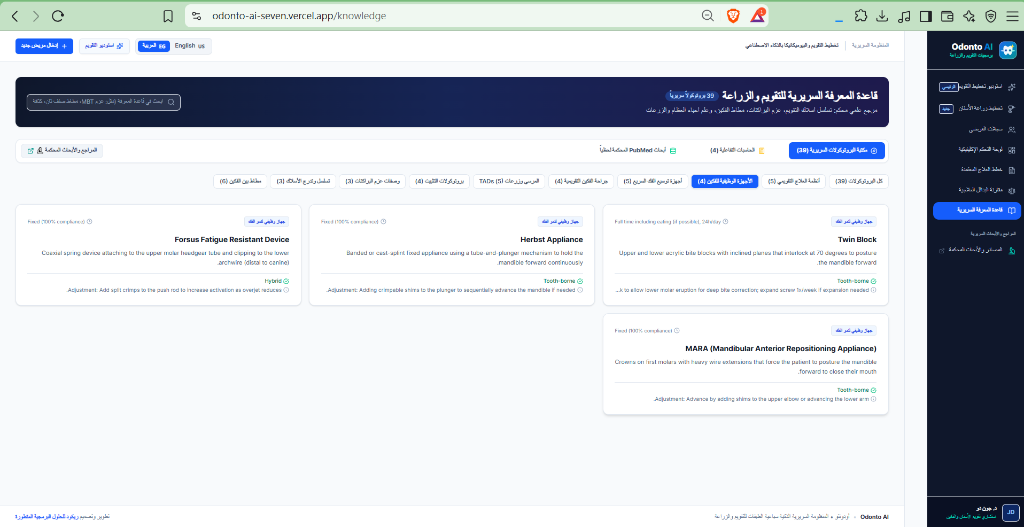
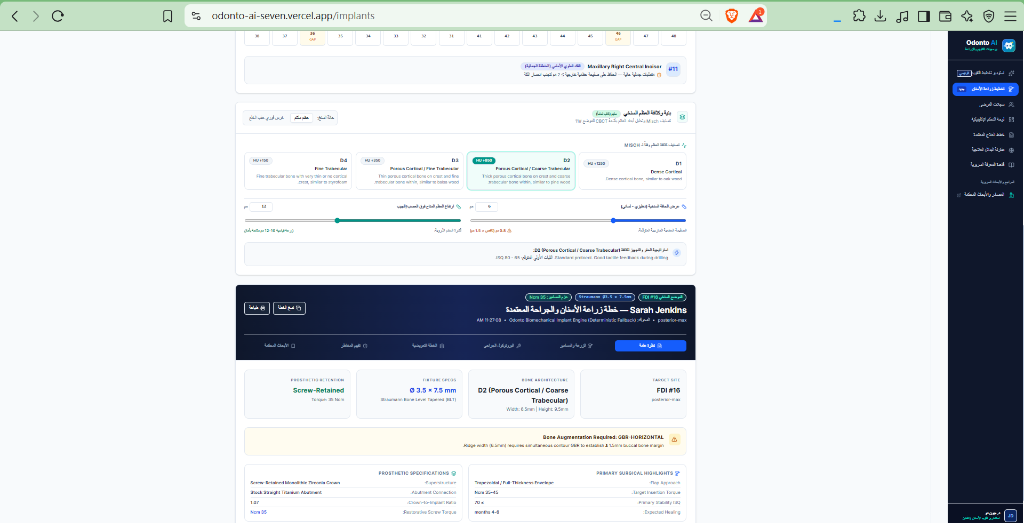
fix(manual): update screenshots to match exact UI content and align callout descriptions

diff --git a/public/developer-manual.html b/public/developer-manual.html
@@ -896,43 +896,14 @@
           </div>
         </div>
 
-        <!-- Studio Header & Language Switcher Screenshot -->
-        <div class="screenshot-card" style="margin: 18px 0 28px 0;">
-          <div class="screenshot-top-bar">
-            <div class="browser-dots">
-              <span class="browser-dot dot-red"></span>
-              <span class="browser-dot dot-yellow"></span>
-              <span class="browser-dot dot-green"></span>
-            </div>
-            <span>Odonto AI Header — شريط الأدوات العلوي ومبدل اللغة وأزرار الحالات الجاهزة</span>
-          </div>
-          <div class="screenshot-img-wrap">
-            <img src="/screenshots/studio_header_preview.png" alt="Odonto AI Studio Header & Language Switcher">
-          </div>
-          <div class="screenshot-bottom-info">
-            <strong>مزايا شريط التحكم العلوي:</strong>
-            <div class="callout-list">
-              <div class="callout-item">
-                <div class="callout-marker">🌐</div>
-                <span><strong>مبدل اللغة الشامل (Bilingual Switcher):</strong> يحول كامل المصطلحات والواجهات بين العربية المصرية المعرّبة طبياً والإنجليزية بضغطة واحدة.</span>
-              </div>
-              <div class="callout-item">
-                <div class="callout-marker">⚡</div>
-                <span><strong>تحميل الحالات الفوري (Quick Presets):</strong> زر لاختبار أصعب الحالات السريرية وتجربة النظام بلحظة واحدة.</span>
-              </div>
-            </div>
-          </div>
-        </div>
-
-
         <div class="step-item">
           <div class="step-badge">3</div>
           <div class="step-content">
             <h3>اختيار عمق الشرح السريري (Experience Level Toggle)</h3>
             <p>
               يحتوي النظام على مفتاح ذكي لتغيير أسلوب الصياغة الطبية:
-              <br>• <strong>مبتدئ (Beginner):</strong> يقدم شرحاً تفصيلياً مع تبرير كل قرار بيوميكانيكي وذكر المراجع الأكاديمية (مثالي للتدريب وشرح الحالة للمريض).
-              <br>• <strong>خبير (Expert):</strong> يعطي تقريراً مكثفاً ومباشراً يحتوي على الأرقام والميكانيكا فوراً دون إطالة.
+              <br>• <strong>مبتدئ (Fresh Graduate with Rationale):</strong> يقدم شرحاً تفصيلياً مع تبرير كل قرار بيوميكانيكي وذكر المراجع الأكاديمية (مثالي للتدريب وشرح الحالة للمريض).
+              <br>• <strong>خبير (Specialist Concise):</strong> يعطي تقريراً مكثفاً ومباشراً يحتوي على الأرقام والميكانيكا فوراً دون إطالة.
             </p>
           </div>
         </div>
@@ -940,9 +911,9 @@
         <div class="step-item">
           <div class="step-badge">4</div>
           <div class="step-content">
-            <h3>الضغط على زر التوليد السريري (Generate Comprehensive Plan)</h3>
+            <h3>الضغط على زر التوليد السريري (Generate Plan with GPT-4o)</h3>
             <p>
-              اضغط على الزر الرئيسي البنفسجي/الأزرق. في هذه اللحظة، يعمل خط الأنابيب السباعي في الخادم لثوانٍ معدودة، ثم تظهر أمامك خطة علاجية متكاملة تتضمن:
+              اضغط على الزر الرئيسي الأزرق في أعلى اليمين. في هذه اللحظة، يعمل خط الأنابيب السباعي في الخادم لثوانٍ معدودة، ثم تظهر أمامك خطة علاجية متكاملة تتضمن:
               <br>1. <strong>ملخص التشخيص:</strong> التصنيف الهيكلي والسنّي وصحة اللثة.
               <br>2. <strong>قرار الخلع:</strong> هل نخلع أسناناً أم لا ولماذا؟
               <br>3. <strong>تدرج الأسلاك:</strong> جدول مقاسات الأسلاك (NiTi ثم Stainless Steel ثم TMA).
@@ -962,29 +933,29 @@
             <span class="browser-dot dot-yellow"></span>
             <span class="browser-dot dot-green"></span>
           </div>
-          <span>Odonto AI Treatment Studio — شاشة استوديو تخليق خطط العلاج</span>
+          <span>Odonto AI Treatment Studio — شاشة استوديو تخليق خطط العلاج وتقويم الأسنان</span>
         </div>
         <div class="screenshot-img-wrap">
-          <img src="/screenshots/treatment_studio_preview.png" alt="Treatment Studio Interface" onerror="this.src='/screenshots/plan_generation_preview.png'">
+          <img src="/screenshots/treatment_studio_preview.png" alt="Treatment Planning Studio Interface">
         </div>
         <div class="screenshot-bottom-info">
-          <strong>عناصر الشاشة الرئيسية الموضحة أعلاه:</strong>
+          <strong>عناصر شاشة استوديو العلاج الموضحة أعلاه:</strong>
           <div class="callout-list">
             <div class="callout-item">
               <div class="callout-marker">1</div>
-              <span><strong>صندوق العينات الجاهزة:</strong> أزرار تحميل الحالات السريرية الجاهزة للاختبار الفوري.</span>
+              <span><strong>شريط خط الأنابيب السباعي (7-Layer Pipeline Status):</strong> متابعة آنية لحالة طبقات التحليل (Ceph, Panoramic, Pre-Ortho, 3D Arch Space, CBCT, Clinical Reasoning, Plan Synthesis).</span>
             </div>
             <div class="callout-item">
               <div class="callout-marker">2</div>
-              <span><strong>مخطط الفحص السريري:</strong> خانات إدخال البروز، التغطية، والتزاحم بالملليمتر.</span>
+              <span><strong>محددات الحالة وتفضيل العلاج (Case & Modality Selectors):</strong> اختيار المريض، مستوى عمق التقرير السريري (Fresh Graduate / Specialist)، ونوع جهاز التقويم (مثل MBT 0.022").</span>
             </div>
             <div class="callout-item">
               <div class="callout-marker">3</div>
-              <span><strong>مفتاح مستوى الخبرة:</strong> التبديل بين الشرح المفصل (Beginner) والملخص السريع (Expert).</span>
+              <span><strong>استوديو تتبع السيفالومتريك المباشر (AI Cephalometric Tracing):</strong> نافذة التتبع الآلي لنقاط وزوايا الجمجمة (Steiner/Downs/Tweed) ورسم الخطوط البيوميكانيكية فورياً.</span>
             </div>
             <div class="callout-item">
               <div class="callout-marker">4</div>
-              <span><strong>زر توليد الخطة:</strong> يطلق خط أنابيب المعالجة والذكاء الاصطناعي السريري.</span>
+              <span><strong>الخطة السريرية الأولية وزر التوليد:</strong> عرض الوصفة الرئيسية، المدة المقدرة (20-24 شهراً)، قرار الخلع، وزر "Generate Plan with GPT-4o" في الأعلى.</span>
             </div>
           </div>
         </div>
@@ -1092,29 +1063,29 @@
             <span class="browser-dot dot-yellow"></span>
             <span class="browser-dot dot-green"></span>
           </div>
-          <span>Odonto AI Treatment Plan — ناتج تخليق الخطة السريرية وتدرج الأسلاك والميكانيكا</span>
+          <span>Odonto AI Treatment Studio — نموذج المحاكاة ثلاثي الأبعاد وخطة العلاج المخلّقة بـ 7 طبقات أمان</span>
         </div>
         <div class="screenshot-img-wrap">
-          <img src="/screenshots/plan_generation_preview.png" alt="Generated Treatment Plan Output">
+          <img src="/screenshots/plan_generation_preview.png" alt="Generated Treatment Plan Output with 3D Study Model">
         </div>
         <div class="screenshot-bottom-info">
-          <strong>مخرجات الخطة السريرية المولدة بواسطة خط الأنابيب السباعي:</strong>
+          <strong>مخرجات الخطة السريرية والمحاكاة ثلاثية الأبعاد الموضحة أعلاه:</strong>
           <div class="callout-list">
             <div class="callout-item">
               <div class="callout-marker">1</div>
-              <span><strong>أهداف العلاج المرحلية (Staged Objectives):</strong> خطوات بيولوجية مقسمة على مراحل متدرجة لتقليل الإجهاد على الأنسجة المحيطة بالسن.</span>
+              <span><strong>نموذج الدراسة ثلاثي الأبعاد التفاعلي (3D Digital Study Model):</strong> معاينة حية لإطباق الأسنان بتقنية WebGL مع إمكانية تحريك الفكين ومحاكاة المحاذاة (Alignment Simulation).</span>
             </div>
             <div class="callout-item">
               <div class="callout-marker">2</div>
-              <span><strong>تدرج الأسلاك الحسابي (Wire Progression):</strong> تسلسل المقاسات والسبائك (CuNiTi ثم SS ثم TMA) حسب حالة الحالة.</span>
+              <span><strong>قرار الخلع الحسابي (Extraction Decision: Non-Extraction):</strong> توضيح مانع الخلع لحماية مظهر الوجه ومحيط الفك العلوي في حالات Class III لمنع تراجع منتصف الوجه.</span>
             </div>
             <div class="callout-item">
               <div class="callout-marker">3</div>
-              <span><strong>بروتوكول المطاطات وقوة الشد (Elastics & Vector):</strong> تحديد عيار القوة بالأونصة، ساعات الارتداء، واتجاه الشد لتصحيح العضة.</span>
+              <span><strong>الميكانيكا المرحلية وتوسيع العظم (Staged Mechanics):</strong> تفصيل المرحلة (Phase 1A) بتوسيع عظم الحنك عبر جهاز Hyrax بمعدل لفتين يومياً (0.5 مم/يوم) لفك دروز الفك العلوي.</span>
             </div>
             <div class="callout-item">
               <div class="callout-marker">4</div>
-              <span><strong>التثبيت والوقاية من الارتداد (Retention Protocol):</strong> اختيار مثبت سلكي دائم أو شفاف لمنع نكس الحالة مع جدول المتابعة.</span>
+              <span><strong>تبويبات البروتوكولات المكتملة:</strong> تدرج الأسلاك (Archwire Progression)، المطاطات والزرعات (Anchorage & Elastics)، التثبيت (Retention)، والأدلة المنشورة (Literature Evidence).</span>
             </div>
           </div>
         </div>
@@ -1186,29 +1157,29 @@
             <span class="browser-dot dot-yellow"></span>
             <span class="browser-dot dot-green"></span>
           </div>
-          <span>Odonto AI Implant Studio — استوديو زراعة الأسنان الرقمي</span>
+          <span>Odonto AI Implant Studio — استوديو زراعة الأسنان وحسابات كثافة العظم وخطة الجراحة</span>
         </div>
         <div class="screenshot-img-wrap">
           <img src="/screenshots/implants_studio_preview.png" alt="Implants Studio Interface">
         </div>
         <div class="screenshot-bottom-info">
-          <strong>عناصر استوديو الزراعة الموضحة أعلاه:</strong>
+          <strong>عناصر استوديو الزراعة الموضحة في الصورة أعلاه:</strong>
           <div class="callout-list">
             <div class="callout-item">
               <div class="callout-marker">1</div>
-              <span><strong>محدد السن المفقود:</strong> اختيار موقع الزراعة حسب نظام FDI.</span>
+              <span><strong>محدد السن والمنطقة (FDI #16 Posterior Maxilla):</strong> تحديد موقع الزرعة للضرس العلوي أو القاطع المركزي #11 مع رصد حدود الجيب الفكي والعصب.</span>
             </div>
             <div class="callout-item">
               <div class="callout-marker">2</div>
-              <span><strong>محدد كثافة العظم Misch D1-D4:</strong> تقييم صلابة العظم وبروتوكول الحفر والتبريد.</span>
+              <span><strong>محلل كثافة العظم (Misch D1–D4 & Hounsfield Units):</strong> قياس صلابة العظم (D2 Porous Cortical) وأبعاد العظم المتاح (العرض 6.5 مم، الارتفاع 9.5 مم).</span>
             </div>
             <div class="callout-item">
               <div class="callout-marker">3</div>
-              <span><strong>كتالوج الشركات:</strong> اختيار الزرعة المناسبة من بين 14 ماركة عالمية.</span>
+              <span><strong>مواصفات الزرعة وشركة التصنيع:</strong> اختيار زرعة Straumann BLT بمقاس Ø 3.5 × 7.5 مم بناءً على كتالوجات الشركات الـ 14 المعتمدة.</span>
             </div>
             <div class="callout-item">
               <div class="callout-marker">4</div>
-              <span><strong>عزم التربيط (Torque Ncm):</strong> القوة الدقيقة لربط المسمار لمنع كسره أو فكه لاحقاً.</span>
+              <span><strong>متطلبات الترقيع العظمي وعزم الربط:</strong> تنبيه بحاجة الحالة لترقيع عظمي أفقي (GBR Horizontal) لتحقيق سماكة ≥ 1.5 مم، مع تحديد عزم ربط البرغي التعويضي (35 Ncm).</span>
             </div>
           </div>
         </div>
@@ -1295,25 +1266,25 @@
             <span class="browser-dot dot-yellow"></span>
             <span class="browser-dot dot-green"></span>
           </div>
-          <span>Odonto AI Knowledge Base & PubMed Live RAG — مكتبة المعرفة ومستكشف الأبحاث الحي</span>
+          <span>Odonto AI Knowledge Base & PubMed Live RAG — مكتبة المعرفة السريرية المعربة ومستكشف الأبحاث الحي</span>
         </div>
         <div class="screenshot-img-wrap">
           <img src="/screenshots/knowledge_base_preview.png" alt="Knowledge Base Interface">
         </div>
         <div class="screenshot-bottom-info">
-          <strong>عناصر مكتبة المعرفة الموضحة أعلاه:</strong>
+          <strong>عناصر مكتبة المعرفة الموضحة في الصورة أعلاه:</strong>
           <div class="callout-list">
             <div class="callout-item">
               <div class="callout-marker">1</div>
-              <span><strong>44 بروتوكولاً سريرياً:</strong> مصنفة في 10 أقسام معربة للمبتدئين والمحترفين.</span>
+              <span><strong>39 بروتوكولاً سريرياً معرباً:</strong> مفهرسة في 10 أقسام (أنظمة العلاج، الأجهزة الوظيفية، توسيع الفك، جراحة الفكين، براكتات MBT، تدرج الأسلاك، والمطاطات).</span>
             </div>
             <div class="callout-item">
               <div class="callout-marker">2</div>
-              <span><strong>مستكشف PubMed الحي:</strong> يبحث لحظياً في 36 مليون دراسة طبية في المكتبة الوطنية الأمريكية للطب.</span>
+              <span><strong>مبدل اللغة العلوي (Bilingual Switcher):</strong> يتيح تصفح كافة البروتوكولات والواجهات بالعربية المصرية المعربة طبياً أو الإنجليزية بنقرة واحدة.</span>
             </div>
             <div class="callout-item">
               <div class="callout-marker">3</div>
-              <span><strong>الحاسبات التفاعلية الأربع:</strong> معادلات رياضية نقية لنمو العظم ومسافات الأسنان.</span>
+              <span><strong>الحاسبات التفاعلية الأربع ومستكشف PubMed:</strong> تبويبات للوصول السريع لحاسبات CVM، Bolton، Aligner Velocity، Sinus Lift، مع البحث المباشر في المكتبة الوطنية للطب.</span>
             </div>
           </div>
         </div>

diff --git a/public/manual.html b/public/manual.html
@@ -896,43 +896,14 @@
           </div>
         </div>
 
-        <!-- Studio Header & Language Switcher Screenshot -->
-        <div class="screenshot-card" style="margin: 18px 0 28px 0;">
-          <div class="screenshot-top-bar">
-            <div class="browser-dots">
-              <span class="browser-dot dot-red"></span>
-              <span class="browser-dot dot-yellow"></span>
-              <span class="browser-dot dot-green"></span>
-            </div>
-            <span>Odonto AI Header — شريط الأدوات العلوي ومبدل اللغة وأزرار الحالات الجاهزة</span>
-          </div>
-          <div class="screenshot-img-wrap">
-            <img src="/screenshots/studio_header_preview.png" alt="Odonto AI Studio Header & Language Switcher">
-          </div>
-          <div class="screenshot-bottom-info">
-            <strong>مزايا شريط التحكم العلوي:</strong>
-            <div class="callout-list">
-              <div class="callout-item">
-                <div class="callout-marker">🌐</div>
-                <span><strong>مبدل اللغة الشامل (Bilingual Switcher):</strong> يحول كامل المصطلحات والواجهات بين العربية المصرية المعرّبة طبياً والإنجليزية بضغطة واحدة.</span>
-              </div>
-              <div class="callout-item">
-                <div class="callout-marker">⚡</div>
-                <span><strong>تحميل الحالات الفوري (Quick Presets):</strong> زر لاختبار أصعب الحالات السريرية وتجربة النظام بلحظة واحدة.</span>
-              </div>
-            </div>
-          </div>
-        </div>
-
-
         <div class="step-item">
           <div class="step-badge">3</div>
           <div class="step-content">
             <h3>اختيار عمق الشرح السريري (Experience Level Toggle)</h3>
             <p>
               يحتوي النظام على مفتاح ذكي لتغيير أسلوب الصياغة الطبية:
-              <br>• <strong>مبتدئ (Beginner):</strong> يقدم شرحاً تفصيلياً مع تبرير كل قرار بيوميكانيكي وذكر المراجع الأكاديمية (مثالي للتدريب وشرح الحالة للمريض).
-              <br>• <strong>خبير (Expert):</strong> يعطي تقريراً مكثفاً ومباشراً يحتوي على الأرقام والميكانيكا فوراً دون إطالة.
+              <br>• <strong>مبتدئ (Fresh Graduate with Rationale):</strong> يقدم شرحاً تفصيلياً مع تبرير كل قرار بيوميكانيكي وذكر المراجع الأكاديمية (مثالي للتدريب وشرح الحالة للمريض).
+              <br>• <strong>خبير (Specialist Concise):</strong> يعطي تقريراً مكثفاً ومباشراً يحتوي على الأرقام والميكانيكا فوراً دون إطالة.
             </p>
           </div>
         </div>
@@ -940,9 +911,9 @@
         <div class="step-item">
           <div class="step-badge">4</div>
           <div class="step-content">
-            <h3>الضغط على زر التوليد السريري (Generate Comprehensive Plan)</h3>
+            <h3>الضغط على زر التوليد السريري (Generate Plan with GPT-4o)</h3>
             <p>
-              اضغط على الزر الرئيسي البنفسجي/الأزرق. في هذه اللحظة، يعمل خط الأنابيب السباعي في الخادم لثوانٍ معدودة، ثم تظهر أمامك خطة علاجية متكاملة تتضمن:
+              اضغط على الزر الرئيسي الأزرق في أعلى اليمين. في هذه اللحظة، يعمل خط الأنابيب السباعي في الخادم لثوانٍ معدودة، ثم تظهر أمامك خطة علاجية متكاملة تتضمن:
               <br>1. <strong>ملخص التشخيص:</strong> التصنيف الهيكلي والسنّي وصحة اللثة.
               <br>2. <strong>قرار الخلع:</strong> هل نخلع أسناناً أم لا ولماذا؟
               <br>3. <strong>تدرج الأسلاك:</strong> جدول مقاسات الأسلاك (NiTi ثم Stainless Steel ثم TMA).
@@ -962,29 +933,29 @@
             <span class="browser-dot dot-yellow"></span>
             <span class="browser-dot dot-green"></span>
           </div>
-          <span>Odonto AI Treatment Studio — شاشة استوديو تخليق خطط العلاج</span>
+          <span>Odonto AI Treatment Studio — شاشة استوديو تخليق خطط العلاج وتقويم الأسنان</span>
         </div>
         <div class="screenshot-img-wrap">
-          <img src="/screenshots/treatment_studio_preview.png" alt="Treatment Studio Interface" onerror="this.src='/screenshots/plan_generation_preview.png'">
+          <img src="/screenshots/treatment_studio_preview.png" alt="Treatment Planning Studio Interface">
         </div>
         <div class="screenshot-bottom-info">
-          <strong>عناصر الشاشة الرئيسية الموضحة أعلاه:</strong>
+          <strong>عناصر شاشة استوديو العلاج الموضحة أعلاه:</strong>
           <div class="callout-list">
             <div class="callout-item">
               <div class="callout-marker">1</div>
-              <span><strong>صندوق العينات الجاهزة:</strong> أزرار تحميل الحالات السريرية الجاهزة للاختبار الفوري.</span>
+              <span><strong>شريط خط الأنابيب السباعي (7-Layer Pipeline Status):</strong> متابعة آنية لحالة طبقات التحليل (Ceph, Panoramic, Pre-Ortho, 3D Arch Space, CBCT, Clinical Reasoning, Plan Synthesis).</span>
             </div>
             <div class="callout-item">
               <div class="callout-marker">2</div>
-              <span><strong>مخطط الفحص السريري:</strong> خانات إدخال البروز، التغطية، والتزاحم بالملليمتر.</span>
+              <span><strong>محددات الحالة وتفضيل العلاج (Case & Modality Selectors):</strong> اختيار المريض، مستوى عمق التقرير السريري (Fresh Graduate / Specialist)، ونوع جهاز التقويم (مثل MBT 0.022").</span>
             </div>
             <div class="callout-item">
               <div class="callout-marker">3</div>
-              <span><strong>مفتاح مستوى الخبرة:</strong> التبديل بين الشرح المفصل (Beginner) والملخص السريع (Expert).</span>
+              <span><strong>استوديو تتبع السيفالومتريك المباشر (AI Cephalometric Tracing):</strong> نافذة التتبع الآلي لنقاط وزوايا الجمجمة (Steiner/Downs/Tweed) ورسم الخطوط البيوميكانيكية فورياً.</span>
             </div>
             <div class="callout-item">
               <div class="callout-marker">4</div>
-              <span><strong>زر توليد الخطة:</strong> يطلق خط أنابيب المعالجة والذكاء الاصطناعي السريري.</span>
+              <span><strong>الخطة السريرية الأولية وزر التوليد:</strong> عرض الوصفة الرئيسية، المدة المقدرة (20-24 شهراً)، قرار الخلع، وزر "Generate Plan with GPT-4o" في الأعلى.</span>
             </div>
           </div>
         </div>
@@ -1092,29 +1063,29 @@
             <span class="browser-dot dot-yellow"></span>
             <span class="browser-dot dot-green"></span>
           </div>
-          <span>Odonto AI Treatment Plan — ناتج تخليق الخطة السريرية وتدرج الأسلاك والميكانيكا</span>
+          <span>Odonto AI Treatment Studio — نموذج المحاكاة ثلاثي الأبعاد وخطة العلاج المخلّقة بـ 7 طبقات أمان</span>
         </div>
         <div class="screenshot-img-wrap">
-          <img src="/screenshots/plan_generation_preview.png" alt="Generated Treatment Plan Output">
+          <img src="/screenshots/plan_generation_preview.png" alt="Generated Treatment Plan Output with 3D Study Model">
         </div>
         <div class="screenshot-bottom-info">
-          <strong>مخرجات الخطة السريرية المولدة بواسطة خط الأنابيب السباعي:</strong>
+          <strong>مخرجات الخطة السريرية والمحاكاة ثلاثية الأبعاد الموضحة أعلاه:</strong>
           <div class="callout-list">
             <div class="callout-item">
               <div class="callout-marker">1</div>
-              <span><strong>أهداف العلاج المرحلية (Staged Objectives):</strong> خطوات بيولوجية مقسمة على مراحل متدرجة لتقليل الإجهاد على الأنسجة المحيطة بالسن.</span>
+              <span><strong>نموذج الدراسة ثلاثي الأبعاد التفاعلي (3D Digital Study Model):</strong> معاينة حية لإطباق الأسنان بتقنية WebGL مع إمكانية تحريك الفكين ومحاكاة المحاذاة (Alignment Simulation).</span>
             </div>
             <div class="callout-item">
               <div class="callout-marker">2</div>
-              <span><strong>تدرج الأسلاك الحسابي (Wire Progression):</strong> تسلسل المقاسات والسبائك (CuNiTi ثم SS ثم TMA) حسب حالة الحالة.</span>
+              <span><strong>قرار الخلع الحسابي (Extraction Decision: Non-Extraction):</strong> توضيح مانع الخلع لحماية مظهر الوجه ومحيط الفك العلوي في حالات Class III لمنع تراجع منتصف الوجه.</span>
             </div>
             <div class="callout-item">
               <div class="callout-marker">3</div>
-              <span><strong>بروتوكول المطاطات وقوة الشد (Elastics & Vector):</strong> تحديد عيار القوة بالأونصة، ساعات الارتداء، واتجاه الشد لتصحيح العضة.</span>
+              <span><strong>الميكانيكا المرحلية وتوسيع العظم (Staged Mechanics):</strong> تفصيل المرحلة (Phase 1A) بتوسيع عظم الحنك عبر جهاز Hyrax بمعدل لفتين يومياً (0.5 مم/يوم) لفك دروز الفك العلوي.</span>
             </div>
             <div class="callout-item">
               <div class="callout-marker">4</div>
-              <span><strong>التثبيت والوقاية من الارتداد (Retention Protocol):</strong> اختيار مثبت سلكي دائم أو شفاف لمنع نكس الحالة مع جدول المتابعة.</span>
+              <span><strong>تبويبات البروتوكولات المكتملة:</strong> تدرج الأسلاك (Archwire Progression)، المطاطات والزرعات (Anchorage & Elastics)، التثبيت (Retention)، والأدلة المنشورة (Literature Evidence).</span>
             </div>
           </div>
         </div>
@@ -1186,29 +1157,29 @@
             <span class="browser-dot dot-yellow"></span>
             <span class="browser-dot dot-green"></span>
           </div>
-          <span>Odonto AI Implant Studio — استوديو زراعة الأسنان الرقمي</span>
+          <span>Odonto AI Implant Studio — استوديو زراعة الأسنان وحسابات كثافة العظم وخطة الجراحة</span>
         </div>
         <div class="screenshot-img-wrap">
           <img src="/screenshots/implants_studio_preview.png" alt="Implants Studio Interface">
         </div>
         <div class="screenshot-bottom-info">
-          <strong>عناصر استوديو الزراعة الموضحة أعلاه:</strong>
+          <strong>عناصر استوديو الزراعة الموضحة في الصورة أعلاه:</strong>
           <div class="callout-list">
             <div class="callout-item">
               <div class="callout-marker">1</div>
-              <span><strong>محدد السن المفقود:</strong> اختيار موقع الزراعة حسب نظام FDI.</span>
+              <span><strong>محدد السن والمنطقة (FDI #16 Posterior Maxilla):</strong> تحديد موقع الزرعة للضرس العلوي أو القاطع المركزي #11 مع رصد حدود الجيب الفكي والعصب.</span>
             </div>
             <div class="callout-item">
               <div class="callout-marker">2</div>
-              <span><strong>محدد كثافة العظم Misch D1-D4:</strong> تقييم صلابة العظم وبروتوكول الحفر والتبريد.</span>
+              <span><strong>محلل كثافة العظم (Misch D1–D4 & Hounsfield Units):</strong> قياس صلابة العظم (D2 Porous Cortical) وأبعاد العظم المتاح (العرض 6.5 مم، الارتفاع 9.5 مم).</span>
             </div>
             <div class="callout-item">
               <div class="callout-marker">3</div>
-              <span><strong>كتالوج الشركات:</strong> اختيار الزرعة المناسبة من بين 14 ماركة عالمية.</span>
+              <span><strong>مواصفات الزرعة وشركة التصنيع:</strong> اختيار زرعة Straumann BLT بمقاس Ø 3.5 × 7.5 مم بناءً على كتالوجات الشركات الـ 14 المعتمدة.</span>
             </div>
             <div class="callout-item">
               <div class="callout-marker">4</div>
-              <span><strong>عزم التربيط (Torque Ncm):</strong> القوة الدقيقة لربط المسمار لمنع كسره أو فكه لاحقاً.</span>
+              <span><strong>متطلبات الترقيع العظمي وعزم الربط:</strong> تنبيه بحاجة الحالة لترقيع عظمي أفقي (GBR Horizontal) لتحقيق سماكة ≥ 1.5 مم، مع تحديد عزم ربط البرغي التعويضي (35 Ncm).</span>
             </div>
           </div>
         </div>
@@ -1295,25 +1266,25 @@
             <span class="browser-dot dot-yellow"></span>
             <span class="browser-dot dot-green"></span>
           </div>
-          <span>Odonto AI Knowledge Base & PubMed Live RAG — مكتبة المعرفة ومستكشف الأبحاث الحي</span>
+          <span>Odonto AI Knowledge Base & PubMed Live RAG — مكتبة المعرفة السريرية المعربة ومستكشف الأبحاث الحي</span>
         </div>
         <div class="screenshot-img-wrap">
           <img src="/screenshots/knowledge_base_preview.png" alt="Knowledge Base Interface">
         </div>
         <div class="screenshot-bottom-info">
-          <strong>عناصر مكتبة المعرفة الموضحة أعلاه:</strong>
+          <strong>عناصر مكتبة المعرفة الموضحة في الصورة أعلاه:</strong>
           <div class="callout-list">
             <div class="callout-item">
               <div class="callout-marker">1</div>
-              <span><strong>44 بروتوكولاً سريرياً:</strong> مصنفة في 10 أقسام معربة للمبتدئين والمحترفين.</span>
+              <span><strong>39 بروتوكولاً سريرياً معرباً:</strong> مفهرسة في 10 أقسام (أنظمة العلاج، الأجهزة الوظيفية، توسيع الفك، جراحة الفكين، براكتات MBT، تدرج الأسلاك، والمطاطات).</span>
             </div>
             <div class="callout-item">
               <div class="callout-marker">2</div>
-              <span><strong>مستكشف PubMed الحي:</strong> يبحث لحظياً في 36 مليون دراسة طبية في المكتبة الوطنية الأمريكية للطب.</span>
+              <span><strong>مبدل اللغة العلوي (Bilingual Switcher):</strong> يتيح تصفح كافة البروتوكولات والواجهات بالعربية المصرية المعربة طبياً أو الإنجليزية بنقرة واحدة.</span>
             </div>
             <div class="callout-item">
               <div class="callout-marker">3</div>
-              <span><strong>الحاسبات التفاعلية الأربع:</strong> معادلات رياضية نقية لنمو العظم ومسافات الأسنان.</span>
+              <span><strong>الحاسبات التفاعلية الأربع ومستكشف PubMed:</strong> تبويبات للوصول السريع لحاسبات CVM، Bolton، Aligner Velocity، Sinus Lift، مع البحث المباشر في المكتبة الوطنية للطب.</span>
             </div>
           </div>
         </div>
